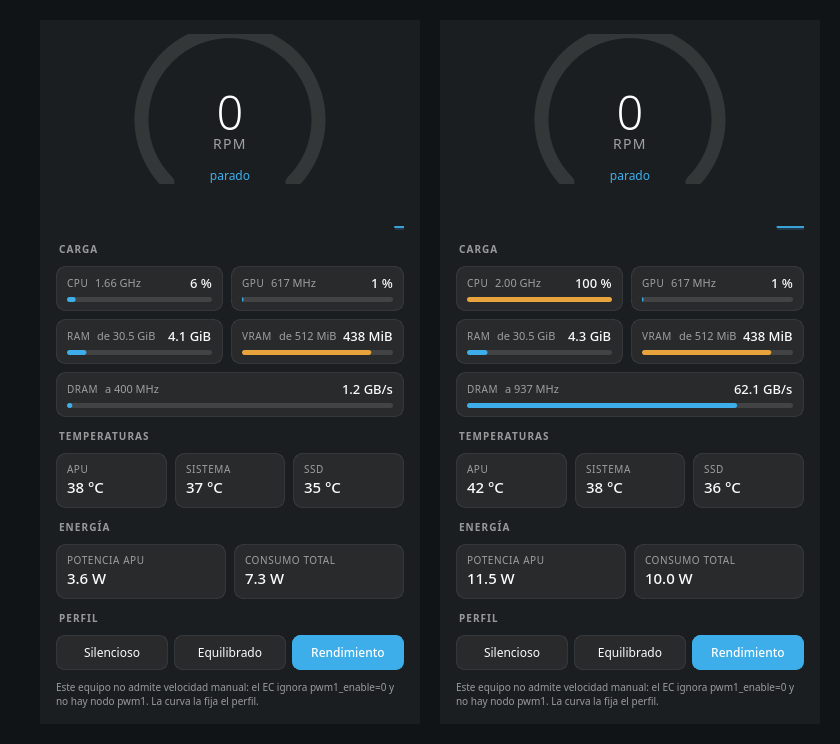
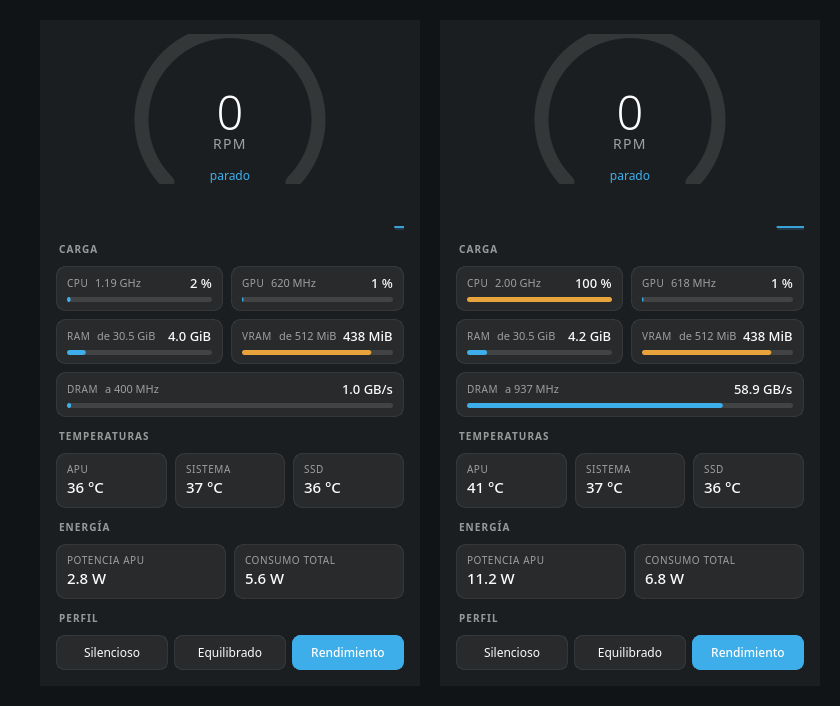
Quita el aviso fijo del pie de la ventana
El texto sobre que el EC no admite velocidad manual estaba siempre a la
vista y ya solo repetia lo que explica el README. La etiqueta se mantiene,
vacia y oculta, porque es la misma que avisa si falla un cambio de perfil;
el porque pasa al tooltip de la seccion Perfil.

Captura del README regenerada.

Claude-Session: https://claude.ai/code/session_01LEHdCGsbstwWgQnRbvyRJj

diff --git a/zenmonitor.py b/zenmonitor.py
@@ -536,7 +536,11 @@ class ZenMonitor(QWidget):
         row2.addWidget(self.w_all)
         root.addLayout(row2)
 
-        root.addWidget(self.section("Perfil"))
+        perfil = self.section("Perfil")
+        perfil.setToolTip(
+            "Este equipo no admite velocidad manual de ventilador: no hay nodo pwm1 "
+            "y el EC ignora pwm1_enable=0.\nLa curva la fija el perfil.")
+        root.addWidget(perfil)
 
         self.group = QButtonGroup(self)
         self.group.setExclusive(True)
@@ -553,11 +557,11 @@ class ZenMonitor(QWidget):
             prow.addWidget(b)
         root.addLayout(prow)
 
-        self.note = QLabel(
-            "Este equipo no admite velocidad manual: el EC ignora pwm1_enable=0 "
-            "y no hay nodo pwm1. La curva la fija el perfil.")
+        # Solo aparece si algo falla; el resto del tiempo no ocupa sitio.
+        self.note = QLabel()
         self.note.setObjectName("note")
         self.note.setWordWrap(True)
+        self.note.hide()
         root.addWidget(self.note)
 
         self.apply_style()
